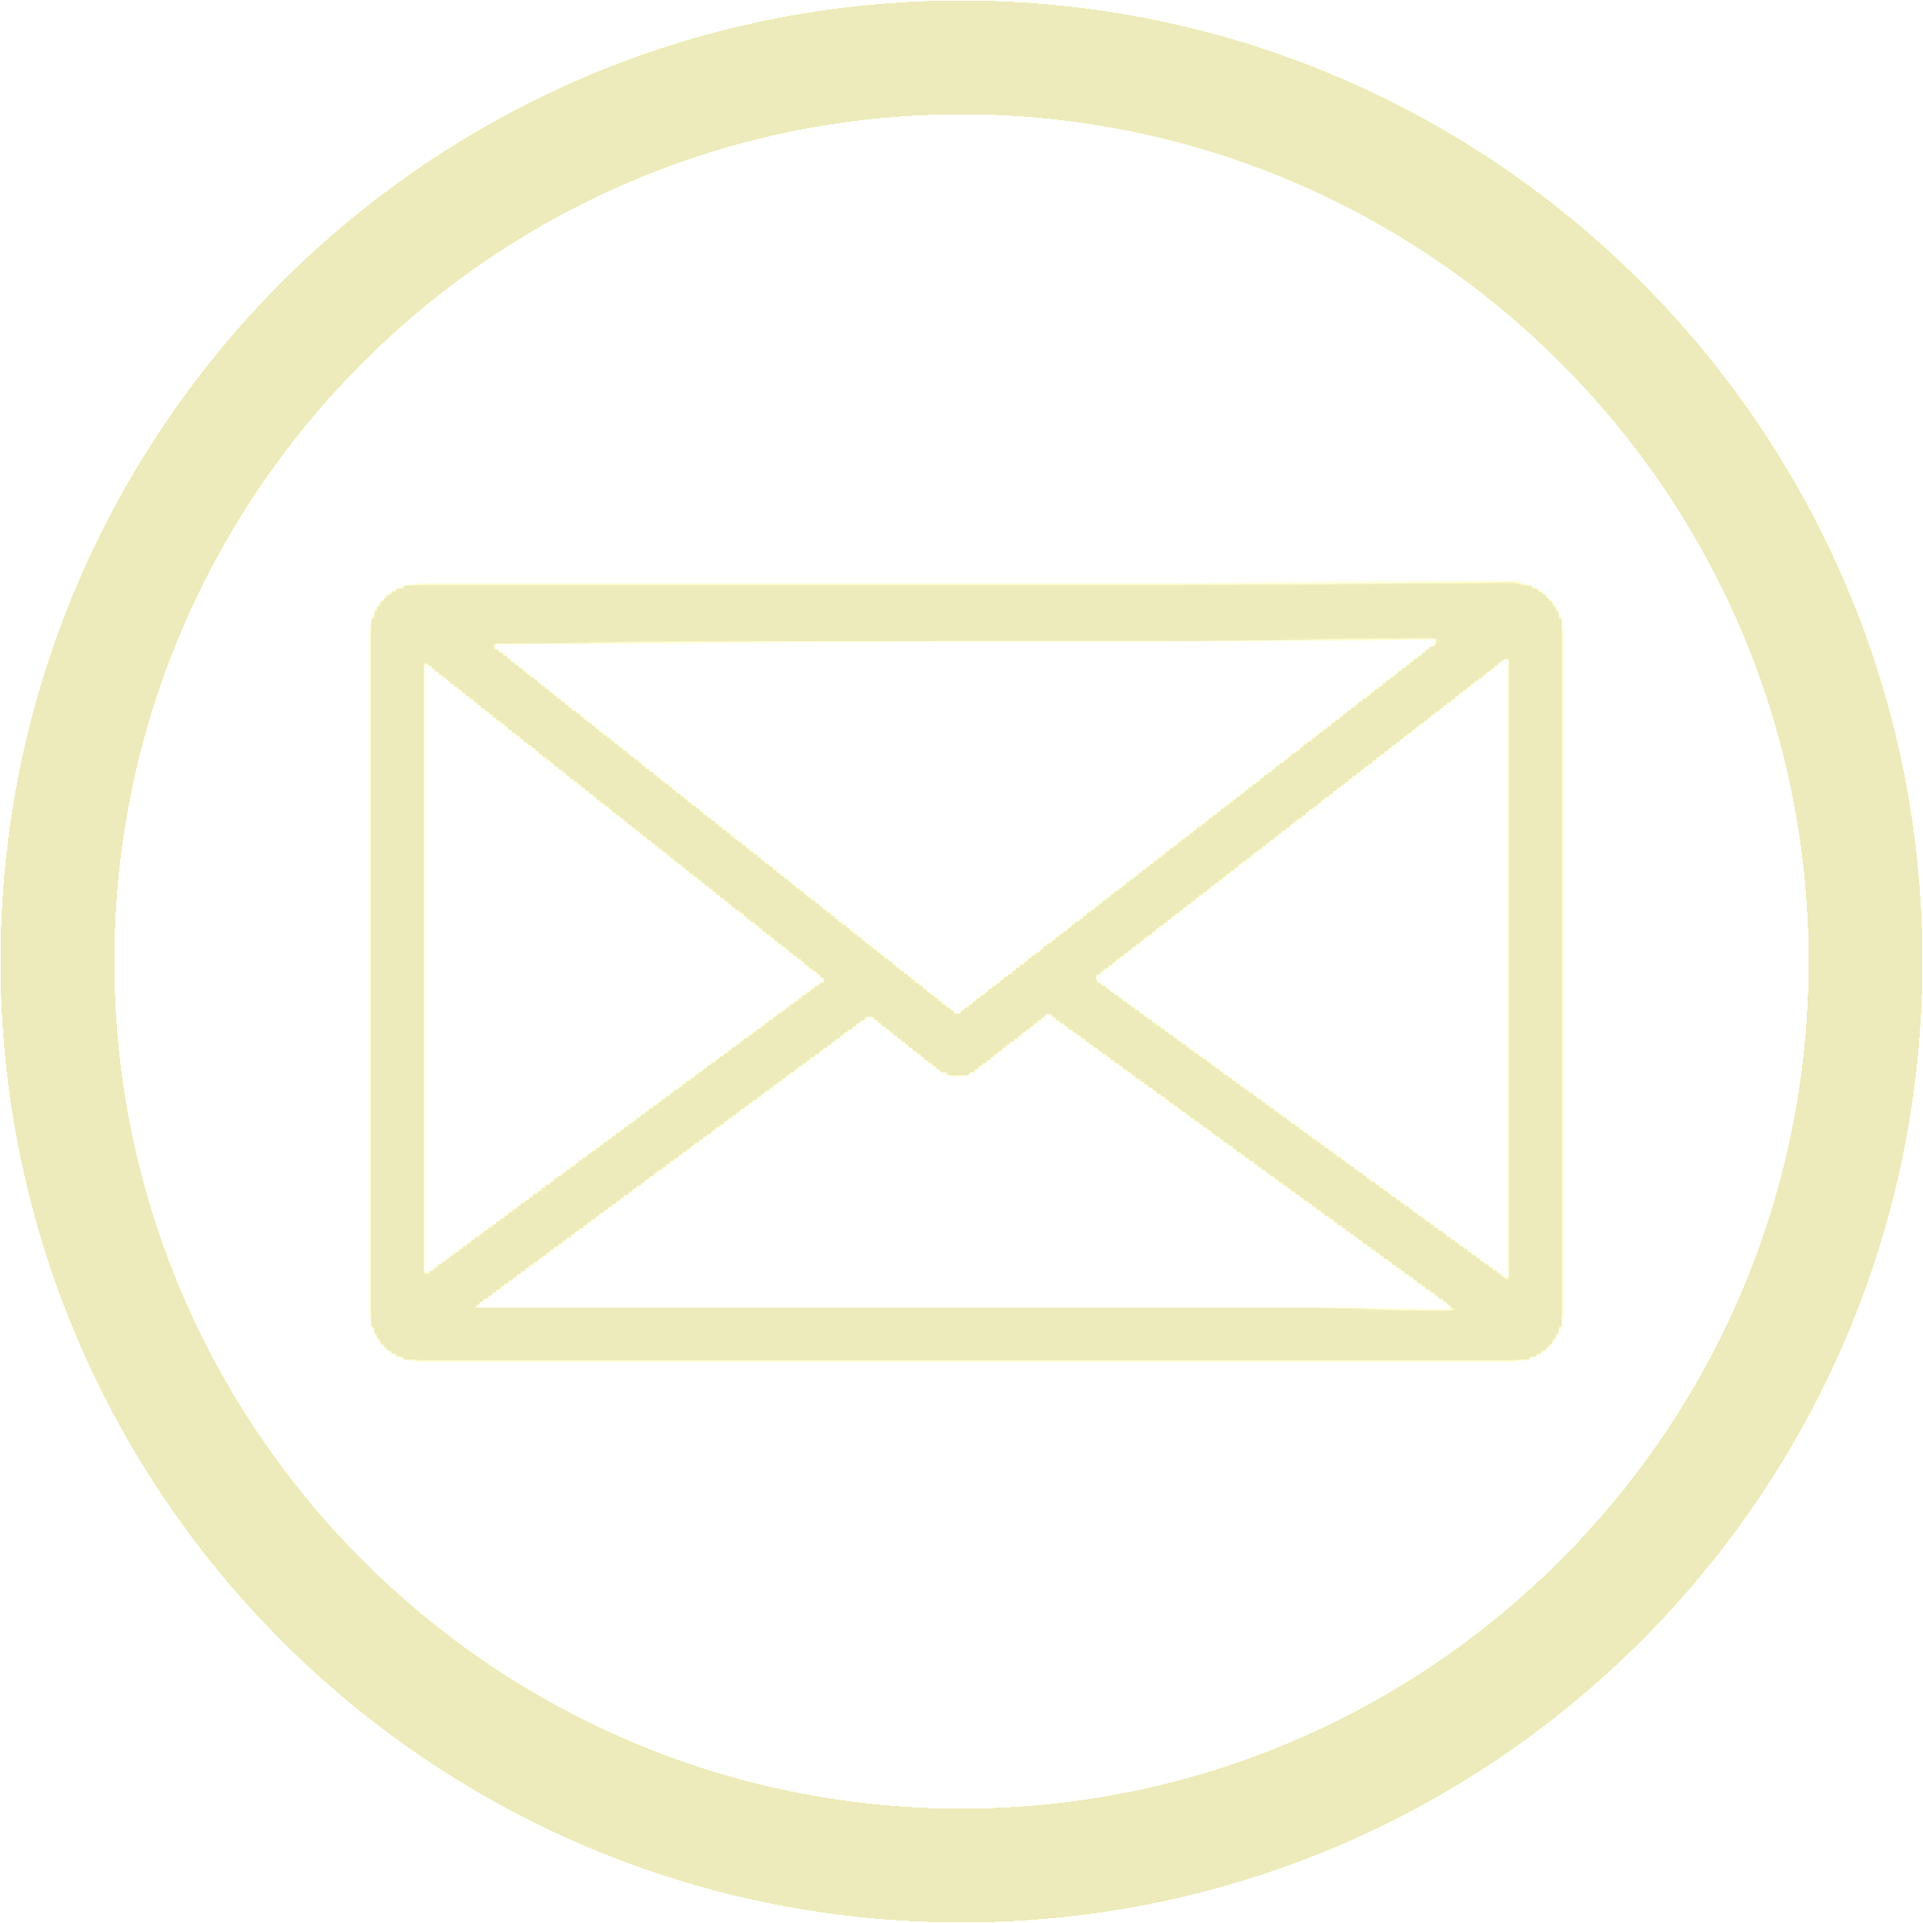
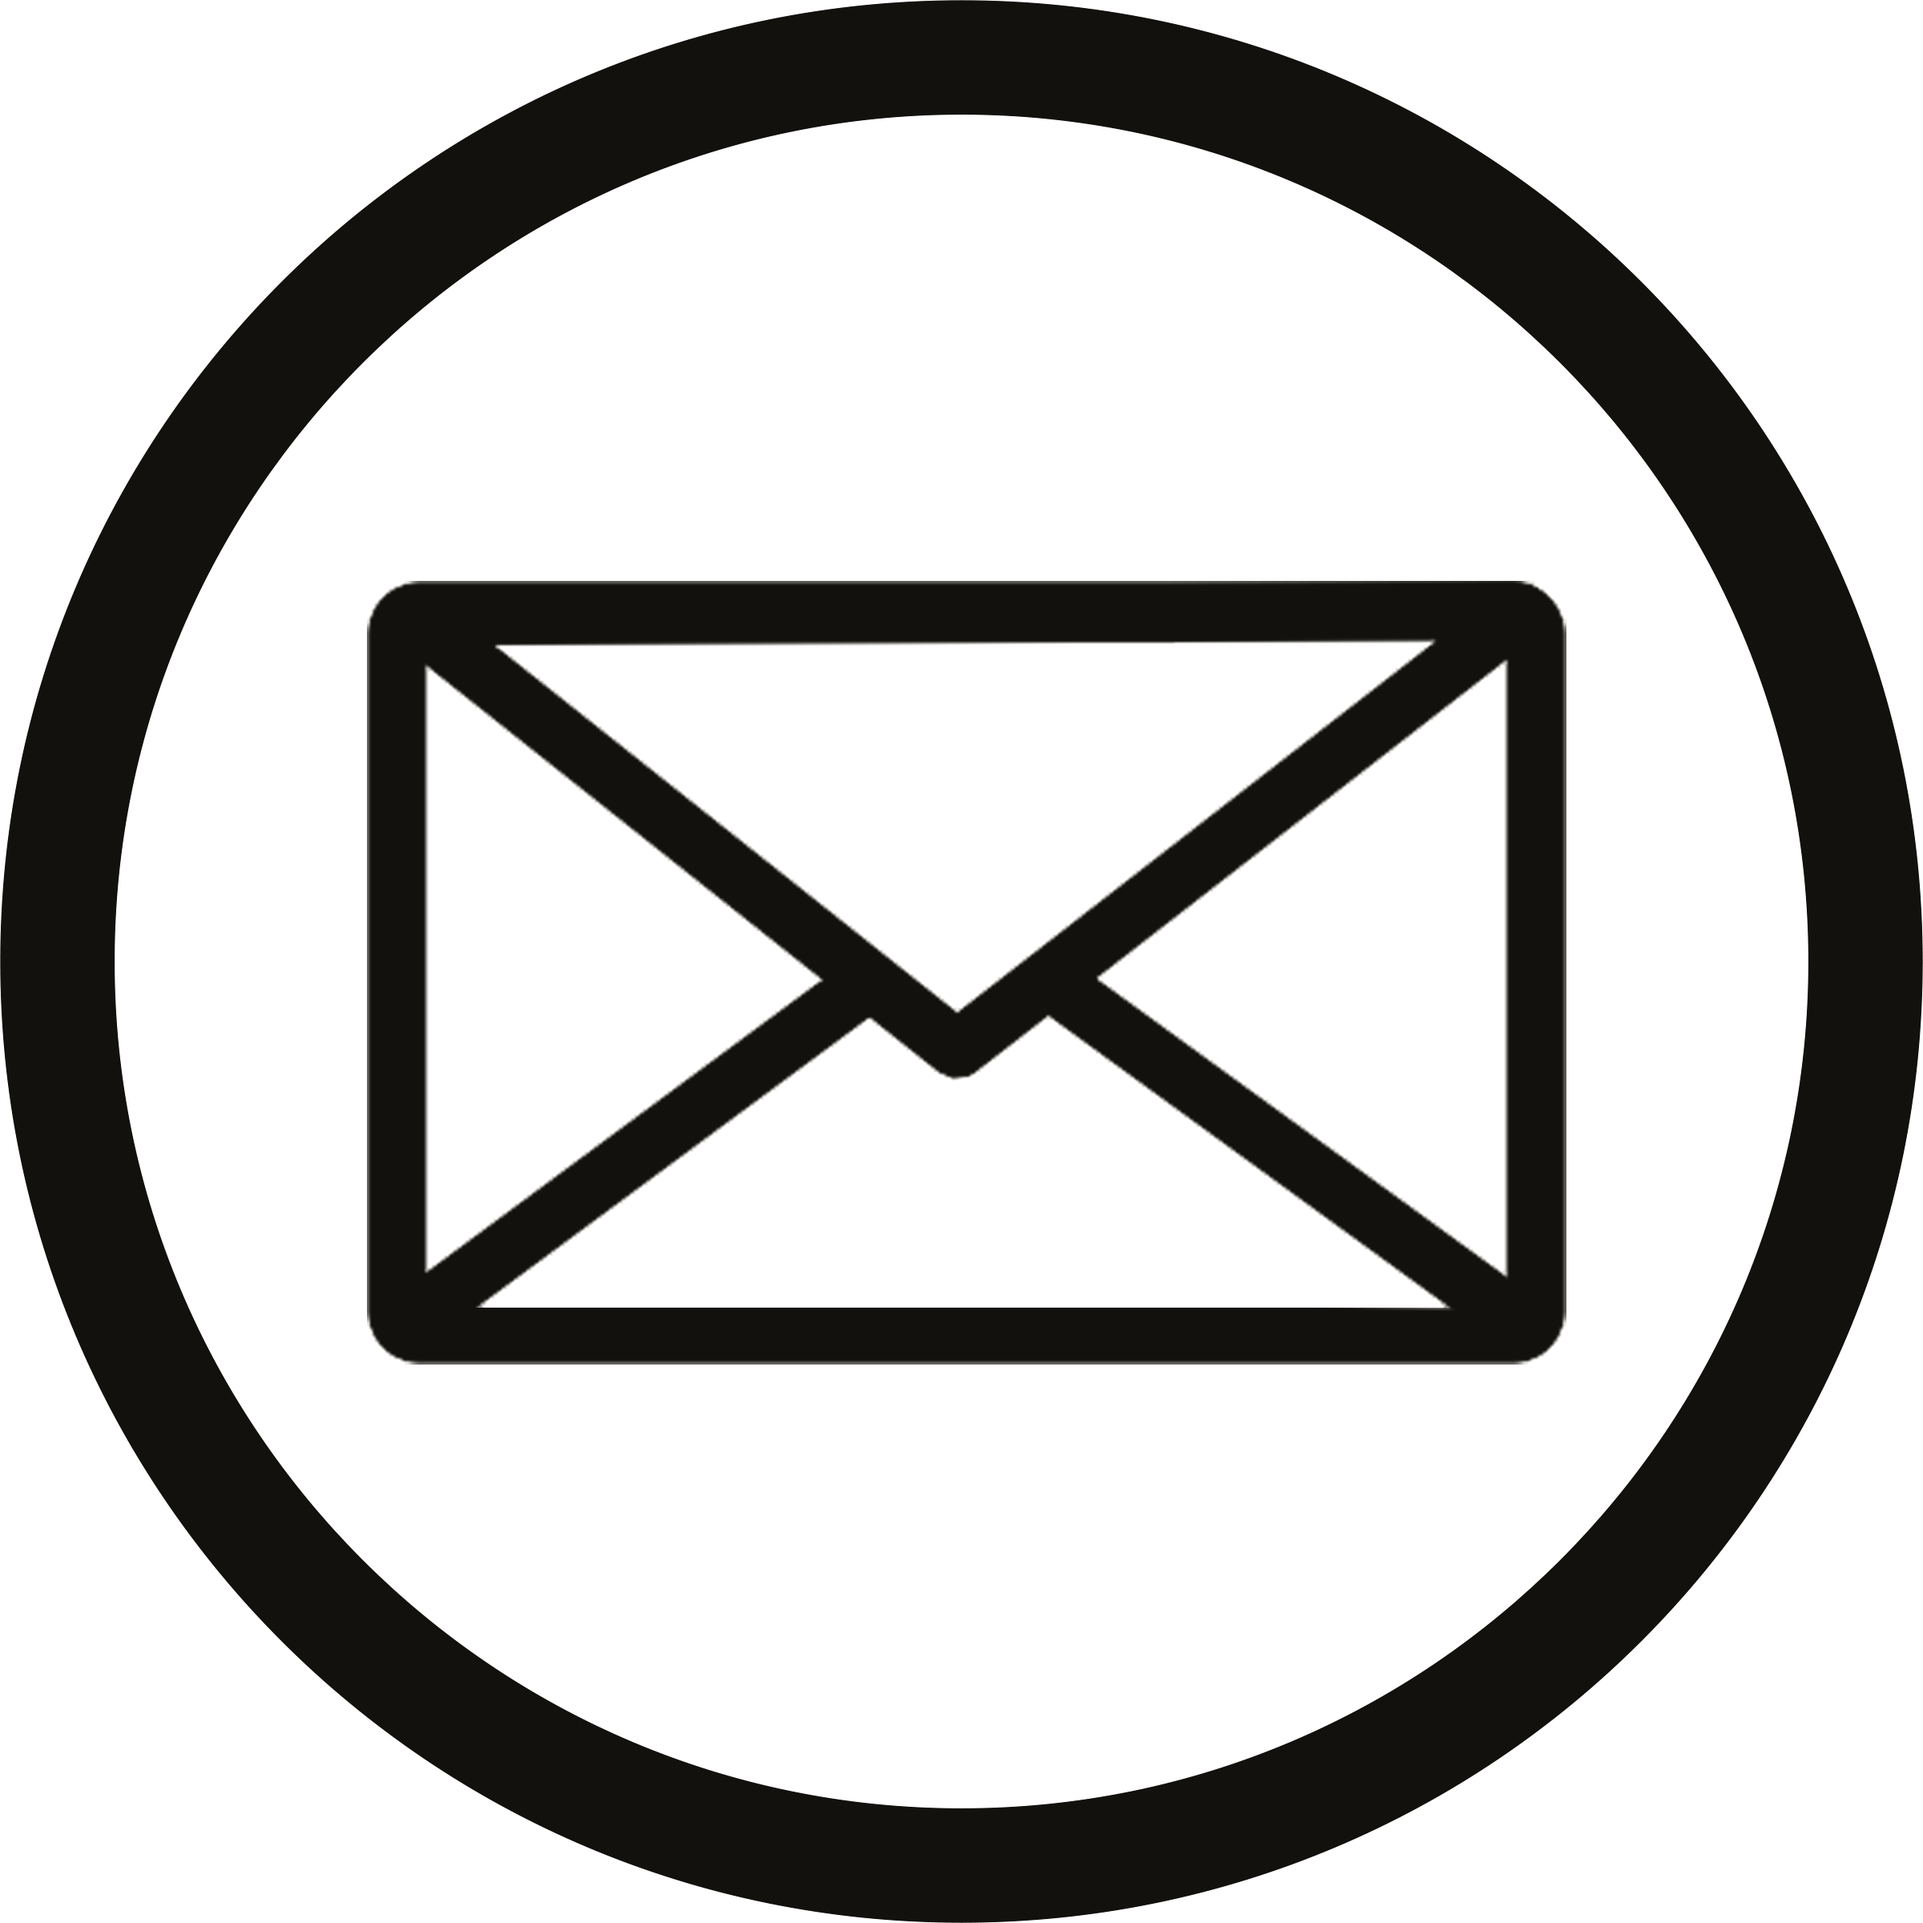
messing with background colors

Changed region(s): [[0.0, 0.0, 1.0, 1.0], [0.1875, 0.2812, 0.8125, 0.7188]]

diff --git a/src/styles/App.css b/src/styles/App.css
@@ -26,7 +26,7 @@ body {
 .navbar {
   display: flex;
   justify-content: flex-end;
-  background-color: #4f5555;
+  background-color: #12110E;
   width: 100%;
   z-index: 1;
   position: fixed;
@@ -37,8 +37,7 @@ body {
   text-decoration: none;
   margin: .15em 2em .15em 0em;
   font-size: 2em;
-  color: #EDEBBB;
-  animation: links infinite 10s linear;
+  color: #f9f7ed;
   font-family: 'Josefin Slab', serif;
   font-weight: 100;
   -webkit-transition: color 0.3s;
@@ -51,36 +50,18 @@ body {
   color: #f67052;
 }
 
-@keyframes links {
-
-  10%, 90% {
-    transform: translate3d(-1px, 0, 0);
-  }
-
-  20%, 80% {
-    transform: translate3d(2px, 0, 0);
-  }
-
-  30%, 50%, 70% {
-    transform: translate3d(-2px, 0, 0);
-  }
-
-  40%, 60% {
-    transform: translate3d(2px, 0, 0);
-  }
-}
-
 .aboutme {
   height: 40em;
-  background-color: #92B9BD;
+  background-color: #12110E;
 }
 
 .aboutme h1 {
   margin: 0;
   font-family: 'Josefin Slab', serif;
   font-size: 3em;
-  text-shadow: 2px 2px 3px #737370;
+  text-shadow: 2px 2px 3px #939390;
   padding: 1em 0em 0em .75em;
+  color: #f9f7ed;
 }
 
 .about {
@@ -98,12 +79,13 @@ body {
   display: flex;
   align-items: center;
   font-size: 1.5em;
+  color: #f9f7ed;
   margin-right: 1.5em;
   font-family: 'Josefin Slab', serif;
 }
 
 .projects {
-  background-color: #12110E;
+  background-color: #f9f7ed;
   padding-bottom: 4em;
 }
 
@@ -113,7 +95,7 @@ body {
   font-family: 'Josefin Slab', serif;
   font-size: 3em;
   text-shadow: 2px 1px 3px #abaa8a;
-  color: #EDEBBB;
+  color: #12110E;
 }
 
 .project a {
@@ -139,12 +121,12 @@ body {
   display: flex;
   align-items: center;
   font-size: 1.5em;
-  color: #EDEBBB;
+  color: #12110E;
   font-family: 'Josefin Slab', serif;
 }
 
 .icons {
-  background-color: #92B9BD;
+  background-color: #21201b;
   height: 25em;
 }
 
@@ -173,10 +155,11 @@ body {
 .icons li i {
   font-size: 4em;
   padding: .1em;
+  color: #f9f7ed;
 }
 
 .icons span {
-  color: #92B9BD;
+  color: #21201b;
   font-size: 1.5em;
   padding-bottom: 5px;
   font-family: 'Raleway', sans-serif;
@@ -184,8 +167,8 @@ body {
 }
 
 .icons li:hover {
-  background-color: #5f6363;
-  color: black;
+  background-color: #5f6262;
+  color: #f9f7ed;
   transition: background-color .5s, color .5s;
   transition-timing-function: ease-in-out;
   border-radius: 10px;
@@ -200,8 +183,8 @@ body {
 
 .contact {
   height: 26em;
-  background-color: #12110E;
-  color: #EDEBBB;
+  background-color: #f9f7ed;
+  color: #12110E;
 }
 
 .contact p {
@@ -226,7 +209,7 @@ body {
   flex-direction: column;
   align-items: center;
   text-decoration: none;
-  color: #EDEBBB;
+  color: #12110E;
 }
 
 .links a:hover {
@@ -277,7 +260,7 @@ body {
   .navbar {
     display: flex;
     justify-content: center;
-    background-color: #4f5555;
+    background-color: #12110E;
     width: 100%;
     z-index: 1;
     position: fixed;
@@ -288,8 +271,7 @@ body {
     text-decoration: none;
     margin: .15em 1em .15em 1em;
     font-size: 1.5em;
-    color: #EDEBBB;
-    animation: links infinite 10s linear;
+    color: #f9f7ed;
     font-family: 'Josefin Slab', serif;
     font-weight: 100;
     -webkit-transition: color 0.3s;
@@ -300,7 +282,7 @@ body {
 
   .aboutme {
     height: 52em;
-    background-color: #92B9BD;
+    background-color: #12110E;
   }
 
   .aboutme h1 {
@@ -320,6 +302,7 @@ body {
 
   .about img {
     margin: 1em 1em 1em 1em;
+    padding-bottom: 1em;
     width: 18em;
     height: auto;
   }
@@ -342,7 +325,7 @@ body {
     font-family: 'Josefin Slab', serif;
     font-size: 3em;
     text-shadow: 2px 1px 3px #abaa8a;
-    color: #EDEBBB;
+    color: #f9f7ed;
   }
 
   .project a {
@@ -367,12 +350,12 @@ body {
     display: flex;
     align-items: center;
     font-size: 1.5em;
-    color: #EDEBBB;
+    color: #f9f7ed;
     font-family: 'Josefin Slab', serif;
   }
 
   .icons {
-    background-color: #92B9BD;
+    background-color: #f9f7ed;
     height: 38em;
   }
 
@@ -408,10 +391,11 @@ body {
   .icons li i {
     font-size: 4em;
     padding: .1em;
+    color: #12110E;
   }
 
   .icons span {
-    color: black;
+    color: #f9f7ed;
     font-size: 1.5em;
     padding-bottom: 5px;
     font-family: 'Raleway', sans-serif;
@@ -434,8 +418,8 @@ body {
 
   .contact {
     height: 20em;
-    background-color: #12110E;
-    color: #EDEBBB;
+    background-color: #f9f7ed;
+    color: #12110E;
   }
 
   .contact p {
@@ -471,6 +455,7 @@ body {
   .links a i {
     font-size: 4em;
     margin-bottom: .25em;
+    color: #12110E;
   }
 
   .links img {
@@ -481,6 +466,7 @@ body {
   .links span {
     font-family: 'Dancing Script', cursive;
     font-size: 1.5em;
+    color: #12110E;
   }
 
 }
@@ -522,15 +508,18 @@ body {
   }
 
   .navbar a {
+    width: 5em;
     text-decoration: none;
+    text-align: center;
+    margin: .07em;
     padding: .05em .15em .05em .15em;
     font-size: 1em;
-    background-color: black;
-    border: 1px solid black;
-    color: #f67052;
-    animation: links infinite 10s linear;
+    background-color: #12110E;
+    border: 1px solid #5f6361;
+    border-radius: 3px;
+    color: #f9f7ed;
     font-family: 'Josefin Slab', serif;
-    font-weight: 100;
+    font-weight: 600;
     -webkit-transition: color 0.3s;
     transition: color 0.3s;
     transition: all 0.2s ease-in-out;
@@ -539,7 +528,7 @@ body {
 
   .aboutme {
     height: 50em;
-    background-color: #92B9BD;
+    background-color: #12110E;
   }
 
   .aboutme h1 {
@@ -582,7 +571,7 @@ body {
     font-family: 'Josefin Slab', serif;
     font-size: 3em;
     text-shadow: 2px 1px 3px #abaa8a;
-    color: #EDEBBB;
+    color: #f9f7ed;
     text-align: center;
   }
 
@@ -608,12 +597,12 @@ body {
     display: flex;
     align-items: center;
     font-size: 1.5em;
-    color: #EDEBBB;
+    color: #f9f7ed;
     font-family: 'Josefin Slab', serif;
   }
 
   .icons {
-    background-color: #92B9BD;
+    background-color: #f9f7ed;
     height: 30em;
   }
 
@@ -652,7 +641,7 @@ body {
   }
 
   .icons span {
-    color: black;
+    color: #f9f7ed;
     font-size: 1.5em;
     padding-bottom: 5px;
     font-family: 'Raleway', sans-serif;
@@ -676,8 +665,8 @@ body {
 
   .contact {
     height: 25em;
-    background-color: #12110E;
-    color: #EDEBBB;
+    background-color: #f9f7ed;
+    color: #12110E;
   }
 
   .contact p {
@@ -702,7 +691,6 @@ body {
     flex-direction: column;
     align-items: center;
     text-decoration: none;
-    color: #EDEBBB;
     padding: .75em;
   }
 
@@ -714,6 +702,7 @@ body {
   .links a i {
     font-size: 4em;
     margin-bottom: .25em;
+    color: #12110E;
   }
 
   .links img {

diff --git a/src/components/NavBar.js b/src/components/NavBar.js
@@ -5,8 +5,8 @@ export default class NavBar extends Component {
 
     return (
       <nav className='navbar'>
-        <a href='#AboutMe' to='#AboutMe'>About Me</a>
         <a href='#Projects' to='#Projects'>Projects</a>
+        <a href='#AboutMe' to='#AboutMe'>About Me</a>
         <a href='#Contact' to='#Contact'>Contact Me</a>
       </nav>
     )

diff --git a/src/components/App.js b/src/components/App.js
@@ -14,9 +14,9 @@ class App extends Component {
       <div className="App">
         <NavBar />
         <Header />
-        <AboutMe />
         <Projects />
         <Languages />
+        <AboutMe />
         <Contact />
       </div>
     );
